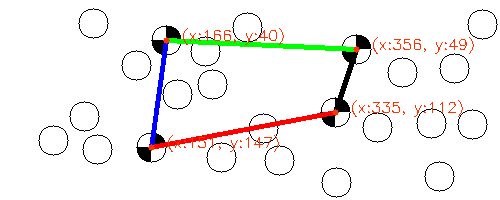
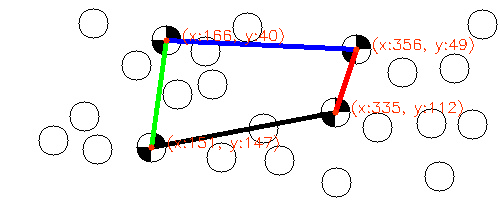
ps3 1. Fixed marker ordering. Added template rotation iterator. WIP.

Changed region(s): [[0.3, 0.18, 0.72, 0.75]]

diff --git a/code/PS3/ps03/ps3.py b/code/PS3/ps03/ps3.py
@@ -3,6 +3,7 @@ CS6476 Problem Set 3 imports. Only Numpy and cv2 are allowed.
 """
 import cv2
 import numpy as np
+import scipy.ndimage
 
 ##########################################################################################
 # Experimental
@@ -38,30 +39,42 @@ def _denoise_img(image):
     return denoised_img
 
 
-def _template_match(image, template, threshold=0.99):
+def _template_match(image, template, threshold=0.99, rotation_angle=0):
     """
     Returns list of tuples of template match coordinates.
     Coordinate are center-point of template match.
     """
-    markers = []
+    global_max = 0
+    global_max_val = 0
+    all_values = {}
 
-    print("Starting Match")
-    # import pdb; pdb.set_trace()
-    while len(markers) < 16 and threshold > 0.5:
-        print(threshold)
+    for theta in range(0, 360, 5):
+
+        template_rot = scipy.ndimage.rotate(template, theta)
+        threshold = 0.95
+
+        results = cv2.matchTemplate(image, template_rot, method=cv2.TM_CCORR_NORMED)
         markers = []
+        while len(markers) < 16 and threshold > 0.70:
+            markers = []
+            markers_ = np.where(results >= threshold)
 
-        results = cv2.matchTemplate(image, template, method=cv2.TM_CCORR_NORMED)
-        markers_ = np.where(results >= threshold)
+            th, tw = template.shape
 
-        th, tw = template.shape
+            for upper_left_pt in zip(*markers_[::-1]):
+                x = upper_left_pt[0] + int(tw / 2)
+                y = upper_left_pt[1] + int(th / 2)
+                markers.append((x, y))
 
-        for upper_left_pt in zip(*markers_[::-1]):
-            x = upper_left_pt[0] + int(tw / 2)
-            y = upper_left_pt[1] + int(th / 2)
-            markers.append((x, y))
+            threshold = threshold - 0.01
 
-        threshold = threshold - 0.01
+        if results.max() > global_max:
+            print("New global Max", results.max(), "Theta: ", theta)
+            global_max_val = theta
+            global_max = results.max()
+            all_values[theta] = markers
+
+    markers = all_values[global_max_val]
 
     return markers
 
@@ -140,14 +153,15 @@ def _order_markers(markers):
     """
     if len(markers) < 4:
         return markers
-    markers.sort(key=lambda x: x[0])
-    top = markers[:2]
-    top.sort(key=lambda x: x[1])
-    bottom = markers[2:]
-    bottom.sort(key=lambda x: x[1])
 
-    top_left, top_right = top[:2]
-    bottom_left, bottom_right = bottom[:2]
+    markers.sort(key=lambda x: x[1])
+    top = markers[:2]
+    top.sort(key=lambda x: x[0])
+    bottom = markers[2:]
+    bottom.sort(key=lambda x: x[0])
+
+    top_left, top_right = top
+    bottom_left, bottom_right = bottom
 
     return (top_left, bottom_left, top_right, bottom_right)
 
@@ -206,12 +220,17 @@ def find_markers(image, template=None):
         if marker_positions is None:
             return new_image
 
-        for marker in marker_positions:
-            mark_location(new_image, marker)
+        try:
+            for marker in marker_positions:
+                mark_location(new_image, marker)
+
+            new_image = draw_box(new_image, marker_positions, 3)
+        except:
+            return new_image.astype(dtype=np.uint8)
 
         return new_image.astype(dtype=np.uint8)
 
-    def compute_values(template_threshold, block_size, k, harris_threshold):
+    def compute_values(template_threshold, block_size, k, harris_threshold, rotation_angle):
         # Denoise while preserving edges
         denoised_image = _denoise_img(image)
         # gray_template = cv2.cvtColor(template, cv2.COLOR_BGR2GRAY)
@@ -234,16 +253,22 @@ def find_markers(image, template=None):
 
         # Find markers
         markers_positions = _template_match(
-            gray_image, template[:, :, 1], threshold=template_threshold
+            gray_image, template[:, :, 1], threshold=template_threshold, rotation_angle=rotation_angle
         )
         # markers_positions = _harris_corners(
         #     gray_image, block_size, k_size= 3, k=k, harris_threshold=harris_threshold
         # )
+        match_count = len(markers_positions)
 
 
         # Cluster and sort
-        markers_positions = _cluster_markers(markers_positions)
-        markers_positions = _order_markers(markers_positions)
+        try:
+            markers_positions = _cluster_markers(markers_positions)
+            markers_positions = _order_markers(markers_positions)
+        except:
+            print("*"*80)
+            print(markers_positions, match_count)
+            print("*" * 80)
 
         return markers_positions
 
@@ -255,9 +280,10 @@ def find_markers(image, template=None):
     #     block_size=param(20, 3),
     #     k=param(3000, 2199, lambda x: x / 10000),
     #     harris_threshold=param(100, 56, lambda x: x / 100),
+    #     rotation_angle=param(360, 0)
     # )
 
-    markers_positions = compute_values(0.95, block_size=3, k=0.04, harris_threshold=0.99)
+    markers_positions = compute_values(0.95, block_size=3, k=0.04, harris_threshold=0.99, rotation_angle=0)
 
 
     return markers_positions
@@ -269,7 +295,6 @@ def draw_box(image, markers, thickness=1):
     Use your find_markers method to find the corners.
     Use cv2.line, leave the default "lineType" and Pass the thickness
     parameter from this function.
-
 
     tl ------------- tr
     |                 |
@@ -286,7 +311,6 @@ def draw_box(image, markers, thickness=1):
         numpy.array: image with lines drawn.
     """
     img = np.copy(image)
-
     tl, bl, tr, br = markers
 
     cv2.line(img, tl, tr, (255, 0, 0), thickness)
